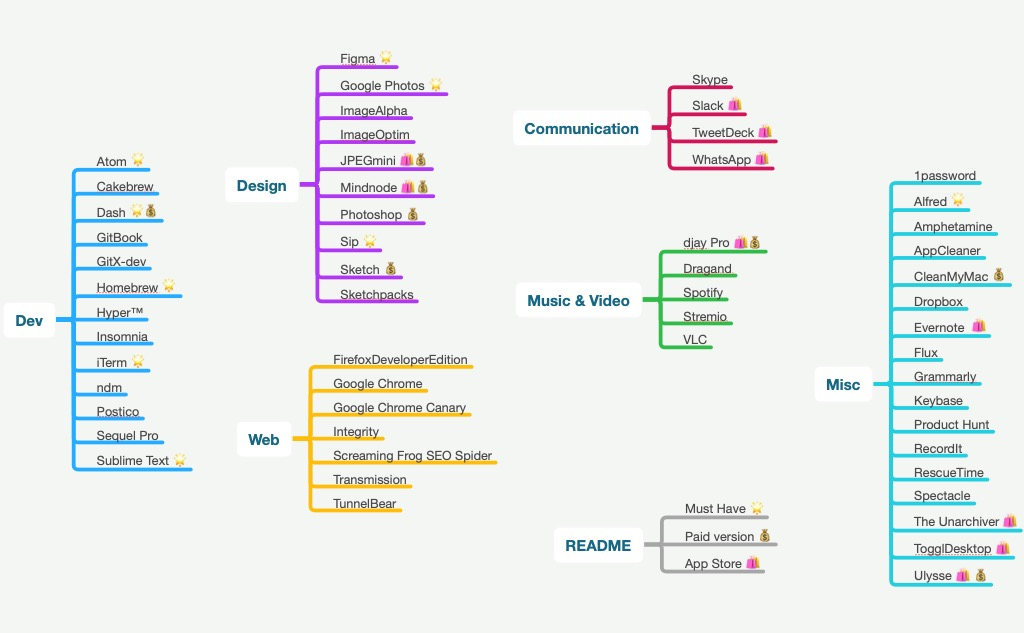
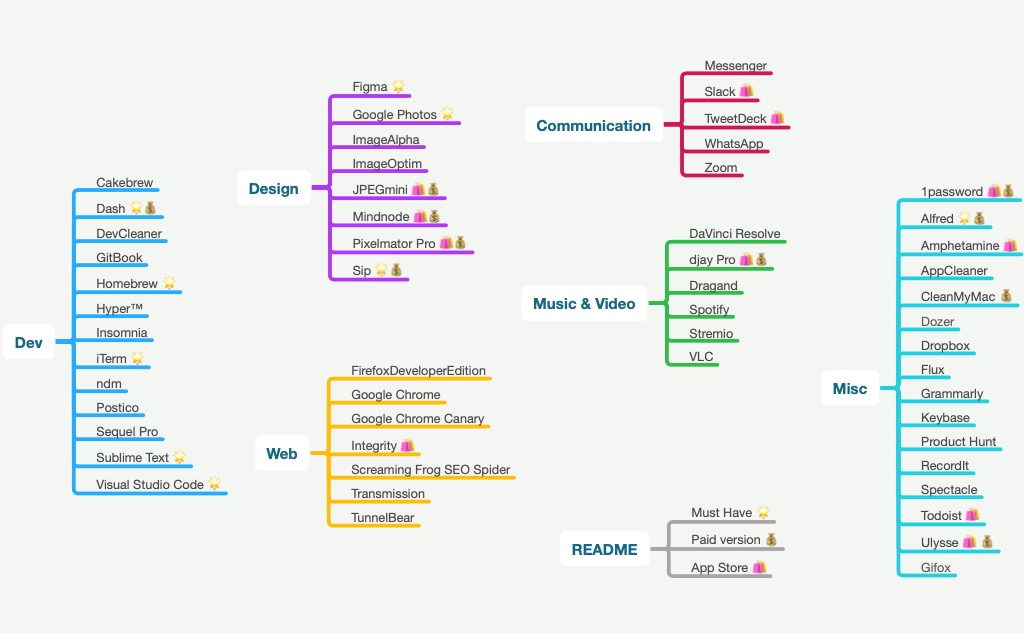
2020

diff --git a/README.md b/README.md
@@ -1,87 +1,84 @@
 # macOS for front-end
 
-Here is the list of all the apps I use to be efficient as a __front-end developer__.
+Here is the list of all the apps I use to be efficient as a **front-end developer**.
 
 > Design better, code faster & ship daily.
 
 [![](macos-front-end.mindnode/QuickLook/Preview.jpg)](http://bit.ly/macos-front-end)
 
-- __Must Have__ 🌟
-- __Paid version__ 💰
-- __App Store__ 🛍
+- **Must Have** 🌟
+- **Paid version** 💰
+- **App Store** 🛍
 
 ## Dev
 
-- __[Atom 🌟](https://atom.io/)__ – The hackable text editor for the 21st Century. It's slow but the comminity is awesome.
-- __[Cakebrew](https://github.com/brunophilipe/Cakebrew)__ – Manage your Homebrew formulas with style.
-- __[Dash 🌟💰](https://kapeli.com/dash)__ – An API Documentation Browser and Code Snippet Manager.
-- __[GitBook](https://www.gitbook.com/)__ – Create, write and organize documentation and books with your team.
-- __[GitX-dev](https://rowanj.github.io/gitx/)__ – Because sometimes you need a GUI to deal with git.
-- __[Hyper™](https://hyper.is/)__ – A terminal built on web technologies. Like Atom you can customise almost everything.
-- __[Homebrew](https://brew.sh/)__ – The missing package manager for macOS (in Ruby).
-- __[Insomnia](https://insomnia.rest/)__ – A beautifull REST client. Debug APIs like a human, not a robot.
-- __[iTerm 🌟](https://www.iterm2.com/)__ – A macOS terminal replacement with awesome features.
-- __[ndm](https://720kb.github.io/ndm/)__ – The Open Source npm desktop GUI.
-- __[oh-my-zsh](https://github.com/robbyrussell/oh-my-zsh)__ - A delightful community-driven framework for managing your zsh configuration.
-- __[Postico](https://eggerapps.at/postico/)__ – A modern PostgreSQL client.
-- __[Sequel Pro](https://www.sequelpro.com/)__ – Database management application for working with MySQL databases.
-- __[Sublime Text 🌟](https://www.sublimetext.com/)__ – A sophisticated text editor for code, markup and prose.
-- __[Visual Studio Code](https://code.visualstudio.com/Download)__ - Visual Studio Code is a source code editor developed by Microsoft for Windows, Linux and macOS.
+- **[Cakebrew](https://github.com/brunophilipe/Cakebrew)** – Manage your Homebrew formulas with style.
+- **[Dash 🌟💰](https://kapeli.com/dash)** – An API Documentation Browser and Code Snippet Manager.
+- **[GitBook](https://www.gitbook.com/)** – Create, write and organize documentation and books with your team.
+- **[Hyper™](https://hyper.is/)** – A terminal built on web technologies. Like Atom you can customise almost everything.
+- **[Homebrew](https://brew.sh/)** – The missing package manager for macOS (in Ruby).
+- **[Insomnia](https://insomnia.rest/)** – A beautifull REST client. Debug APIs like a human, not a robot.
+- **[iTerm 🌟](https://www.iterm2.com/)** – A macOS terminal replacement with awesome features.
+- **[ndm](https://720kb.github.io/ndm/)** – The Open Source npm desktop GUI.
+- **[oh-my-zsh](https://github.com/robbyrussell/oh-my-zsh)** - A delightful community-driven framework for managing your zsh configuration.
+- **[Postico](https://eggerapps.at/postico/)** – A modern PostgreSQL client.
+- **[Sequel Pro](https://www.sequelpro.com/)** – Database management application for working with MySQL databases.
+- **[Sublime Text 🌟](https://www.sublimetext.com/)** – A sophisticated text editor for code, markup and prose.
+- **[Visual Studio Code 🌟](https://code.visualstudio.com/Download)** - Visual Studio Code is a source code editor developed by Microsoft for Windows, Linux and macOS.
 
 ## Design
 
-- __[Figma 🌟](https://www.figma.com/downloads/)__ – Design, prototype, and gather feedback all in one place with Figma.
-- __[Google Photos](https://photos.google.com/apps)__ – Free, unlimited storage for photos up to 16 megapixels and videos up to 1080p resolution.
-- __[ImageAlpha](https://pngmini.com/)__ – Reduces file sizes of 24-bit `PNG`.
-- __[ImageOptim](https://imageoptim.com/)__ – Excellent tool for publishing images on the web.
-- __[JPEGmini 🛍💰](https://itunes.apple.com/fr/app/jpegmini/id498944723?l=en&mt=12)__ – Reduce photo files size by up to 80% without compromising quality.
-- __[MindNode 🛍💰](https://itunes.apple.com/fr/app/mindnode-2-delightful-mind-mapping/id992076693?l=en&mt=12)__ – Delightful Mind Mapping for Mac, iPad & iPhone.
-- __[Photoshop 💰](http://www.photoshop.com/)__ – Raster graphics editor since 1988.
-- __[Sip 🌟 💰](https://sipapp.io/)__ – The best color picker for Mac for collecting, organizing & sharing palettes.
-- __[Sketch 💰](https://www.sketchapp.com/get/)__ – Professional digital design for Mac.
-- __[Sketchpacks](https://www.sketchpacks.com/)__ – Browse, manage, and auto-update your Sketch plugins from the menu bar.
+- **[Figma 🌟](https://www.figma.com/downloads/)** – Design, prototype, and gather feedback all in one place with Figma.
+- **[Google Photos](https://photos.google.com/apps)** – Free, unlimited storage for photos up to 16 megapixels and videos up to 1080p resolution.
+- **[ImageAlpha](https://pngmini.com/)** – Reduces file sizes of 24-bit `PNG`.
+- **[ImageOptim](https://imageoptim.com/)** – Excellent tool for publishing images on the web.
+- **[JPEGmini 🛍💰](https://itunes.apple.com/fr/app/jpegmini/id498944723?l=en&mt=12)** – Reduce photo files size by up to 80% without compromising quality.
+- **[MindNode 🛍💰](https://itunes.apple.com/fr/app/mindnode-2-delightful-mind-mapping/id992076693?l=en&mt=12)** – Delightful Mind Mapping for Mac, iPad & iPhone.
+- **[Pixelmator Pro 🛍💰](https://www.pixelmator.com/pro/)** – Professional image editing tools that anyone can use.
+- **[Sip 🌟💰](https://sipapp.io/)** – The best color picker for Mac for collecting, organizing & sharing palettes.
 
 ## Web
 
-- __[FirefoxDeveloperEdition](https://www.mozilla.org/firefox/developer/)__ – Firefox for web developers.
-- __[Google Chrome](https://www.google.com/chrome/browser/desktop/index.html)__ – Fast, simple and secure web browser, built for the modern web.
-- __[Google Chrome Canary](https://www.google.com/chrome/browser/canary.html)__ – Google Chrome with a golden icon and preview for new debug tools.
-- __[Integrity 🛍](https://itunes.apple.com/fr/app/integrity/id513610341?l=en&mt=12)__ – Scan your website to find broken links.
-- __[Screaming Frog SEO Spider](https://www.screamingfrog.co.uk/seo-spider/)__ – Crawls websites' links, images, CSS, script and apps from an SEO perspective.
-- __[Transmission](https://transmissionbt.com/download/)__ – Simple BitTorrent client.
-- __[TunnelBear](https://www.tunnelbear.com/)__ – Simple, private, free access to the open Internet you.
+- **[FirefoxDeveloperEdition](https://www.mozilla.org/firefox/developer/)** – Firefox for web developers.
+- **[Google Chrome](https://www.google.com/chrome/browser/desktop/index.html)** – Fast, simple and secure web browser, built for the modern web.
+- **[Google Chrome Canary](https://www.google.com/chrome/browser/canary.html)** – Google Chrome with a golden icon and preview for new debug tools.
+- **[Integrity 🛍](https://itunes.apple.com/fr/app/integrity/id513610341?l=en&mt=12)** – Scan your website to find broken links.
+- **[Screaming Frog SEO Spider](https://www.screamingfrog.co.uk/seo-spider/)** – Crawls websites' links, images, CSS, script and apps from an SEO perspective.
+- **[Transmission](https://transmissionbt.com/download/)** – Simple BitTorrent client.
+- **[TunnelBear](https://www.tunnelbear.com/)** – Simple, private, free access to the open Internet you.
 
 ## Communication
 
-- __[Skype](https://www.skype.com)__ – Text message and video chat application.
-- __[Slack 🛍](https://itunes.apple.com/fr/app/slack/id803453959?l=en&mt=12)__ – All your communication together in one place.
-- __[TweetDeck 🛍](https://itunes.apple.com/fr/app/tweetdeck-by-twitter/id485812721?l=en&mt=12)__ – Twitter client.
-- __[WhatsApp 🛍](https://itunes.apple.com/fr/app/whatsapp-desktop/id1147396723?l=en&mt=12)__ – Stay in youch with family and friends.
+- **[Messenger](https://fbmacmessenger.rsms.me/)** – Mac app wrapping Facebook's Messenger for desktop.
+- **[Skype](https://www.skype.com)** – Text message and video chat application.
+- **[Slack 🛍](https://itunes.apple.com/fr/app/slack/id803453959?l=en&mt=12)** – All your communication together in one place.
+- **[TweetDeck 🛍](https://itunes.apple.com/fr/app/tweetdeck-by-twitter/id485812721?l=en&mt=12)** – Twitter client.
+- **[WhatsApp 🛍](https://itunes.apple.com/fr/app/whatsapp-desktop/id1147396723?l=en&mt=12)** – Stay in youch with family and friends.
 
 ## Music & Video
 
-- __[djay Pro 🛍💰](https://itunes.apple.com/fr/app/djay-pro/id947578651?l=en&mt=12)__ – The #1 DJ Software for performing DJs, integrated with iTunes and Spotify.
-- __[Dragand](http://dragand.watch/)__ – Download your subtitles of your favorite series by drag and drop.
-- __[Miro Video Converter](http://www.mirovideoconverter.com/)__ – Convert almost any video to `MP4`, `WebM`, `Ogg`…
-- __[Spotify](https://www.spotify.com)__ – A digital music service that gives you access to millions of songs.
-- __[Stremio](https://www.strem.io/)__ – Watch videos, movies, TV series and TV channels instantly.
-- __[VLC](https://www.videolan.org/vlc/download-macosx.fr.html)__ – Free and open-source media player.
+- **[DaVinci Resolve](https://www.blackmagicdesign.com/fr/products/davinciresolve/)** – Color correction and video editing application for macOS, Windows, and Linux.
+- **[djay Pro 🛍💰](https://itunes.apple.com/fr/app/djay-pro/id947578651?l=en&mt=12)** – The #1 DJ Software for performing DJs, integrated with iTunes and Spotify.
+- **[Dragand](http://dragand.watch/)** – Download your subtitles of your favorite series by drag and drop.
+- **[Miro Video Converter](http://www.mirovideoconverter.com/)** – Convert almost any video to `MP4`, `WebM`, `Ogg`…
+- **[Spotify](https://www.spotify.com)** – A digital music service that gives you access to millions of songs.
+- **[Stremio](https://www.strem.io/)** – Watch videos, movies, TV series and TV channels instantly.
+- **[VLC](https://www.videolan.org/vlc/download-macosx.fr.html)** – Free and open-source media player.
 
 ## Misc
 
-- __[1password 🛍💰](https://itunes.apple.com/fr/app/1password-password-manager-and-secure-wallet/id443987910?l=en&mt=12)__ – Forget your passwords. 1Password remembers them all for you.
-- __[Alfred 🌟💰](https://www.alfredapp.com/)__ – Productivity app for macOS
-- __[Amphetamine 🛍](https://itunes.apple.com/fr/app/amphetamine/id937984704?l=en&mt=12)__ – Keep your mac awake.
-- __[AppCleaner](https://freemacsoft.net/appcleaner/)__ – AppCleaner finds unnecessarily files and safely deletes them.
-- __[CleanMyMac 💰](https://cleanmymac.com/)__ – The world's best Mac cleaner.
-- __[Dropbox](https://www.dropbox.com/downloading)__ – Keeps your files and your team in sync.
-- __[Flux](https://justgetflux.com/)__ – Warms up your computer display at night, to match your indoor lighting.
-- __[Grammarly](https://grammarly.com)__ – Free grammar checker instantly eliminates grammatical errors and enhances your writing.
-- __[Keybase](https://keybase.io/)__ – Public key crypto for everyone, publicly auditable proofs of identity.
-- __[Product Hunt](https://github.com/producthunt/producthunt-osx/)__ – Discover your next favorite thing, surfacing the latest in tech, books, games, and podcasts.
-- __[RecordIt](http://recordit.co/)__ – Record screencasts fast & free! with GIF Support!
-- __[RescueTime](https://www.rescuetime.com)__ – Time management software.
-- __[Spectacle](https://github.com/eczarny/spectacle)__ – Organize your windows without using a mouse.
-- __[The Unarchiver 🛍](https://itunes.apple.com/us/app/the-unarchiver/id425424353?mt=12)__ – Free Unarchiving Software for macOS
-- __[TogglDesktop 🛍](https://itunes.apple.com/fr/app/toggl-desktop/id957734279?l=en&mt=12)__ – Descktop app for online time tracking.
-- __[Ulysse 🛍 💰](https://itunes.apple.com/us/app/ulysses/id1225570693?mt=12)__ – One of the best experience available for writing content. Start with markdown and export everywhere.
+- **[1password 🛍💰](https://itunes.apple.com/fr/app/1password-password-manager-and-secure-wallet/id443987910?l=en&mt=12)** – Forget your passwords. 1Password remembers them all for you.
+- **[Alfred 🌟💰](https://www.alfredapp.com/)** – Productivity app for macOS
+- **[Amphetamine 🛍](https://itunes.apple.com/fr/app/amphetamine/id937984704?l=en&mt=12)** – Keep your mac awake.
+- **[AppCleaner](https://freemacsoft.net/appcleaner/)** – AppCleaner finds unnecessarily files and safely deletes them.
+- **[CleanMyMac 💰](https://cleanmymac.com/)** – The world's best Mac cleaner.
+- **[Dozer](https://dozermac.com/)** – Hide menu bar icons.
+- **[Dropbox](https://www.dropbox.com/downloading)** – Keeps your files and your team in sync.
+- **[Flux](https://justgetflux.com/)** – Warms up your computer display at night, to match your indoor lighting.
+- **[Gifox](https://gifox.io/)** – Delightful GIF Recording and Sharing App.
+- **[Grammarly](https://grammarly.com)** – Free grammar checker instantly eliminates grammatical errors and enhances your writing.
+- **[Keybase](https://keybase.io/)** – Public key crypto for everyone, publicly auditable proofs of identity.
+- **[Product Hunt](https://github.com/producthunt/producthunt-osx/)** – Discover your next favorite thing, surfacing the latest in tech, books, games, and podcasts.
+- **[RecordIt](http://recordit.co/)** – Record screencasts fast & free! with GIF Support!
+- **[Spectacle](https://github.com/eczarny/spectacle)** – Organize your windows without using a mouse.
+- **[Ulysse 🛍 💰](https://itunes.apple.com/us/app/ulysses/id1225570693?mt=12)** – One of the best experience available for writing content. Start with markdown and export everywhere.
